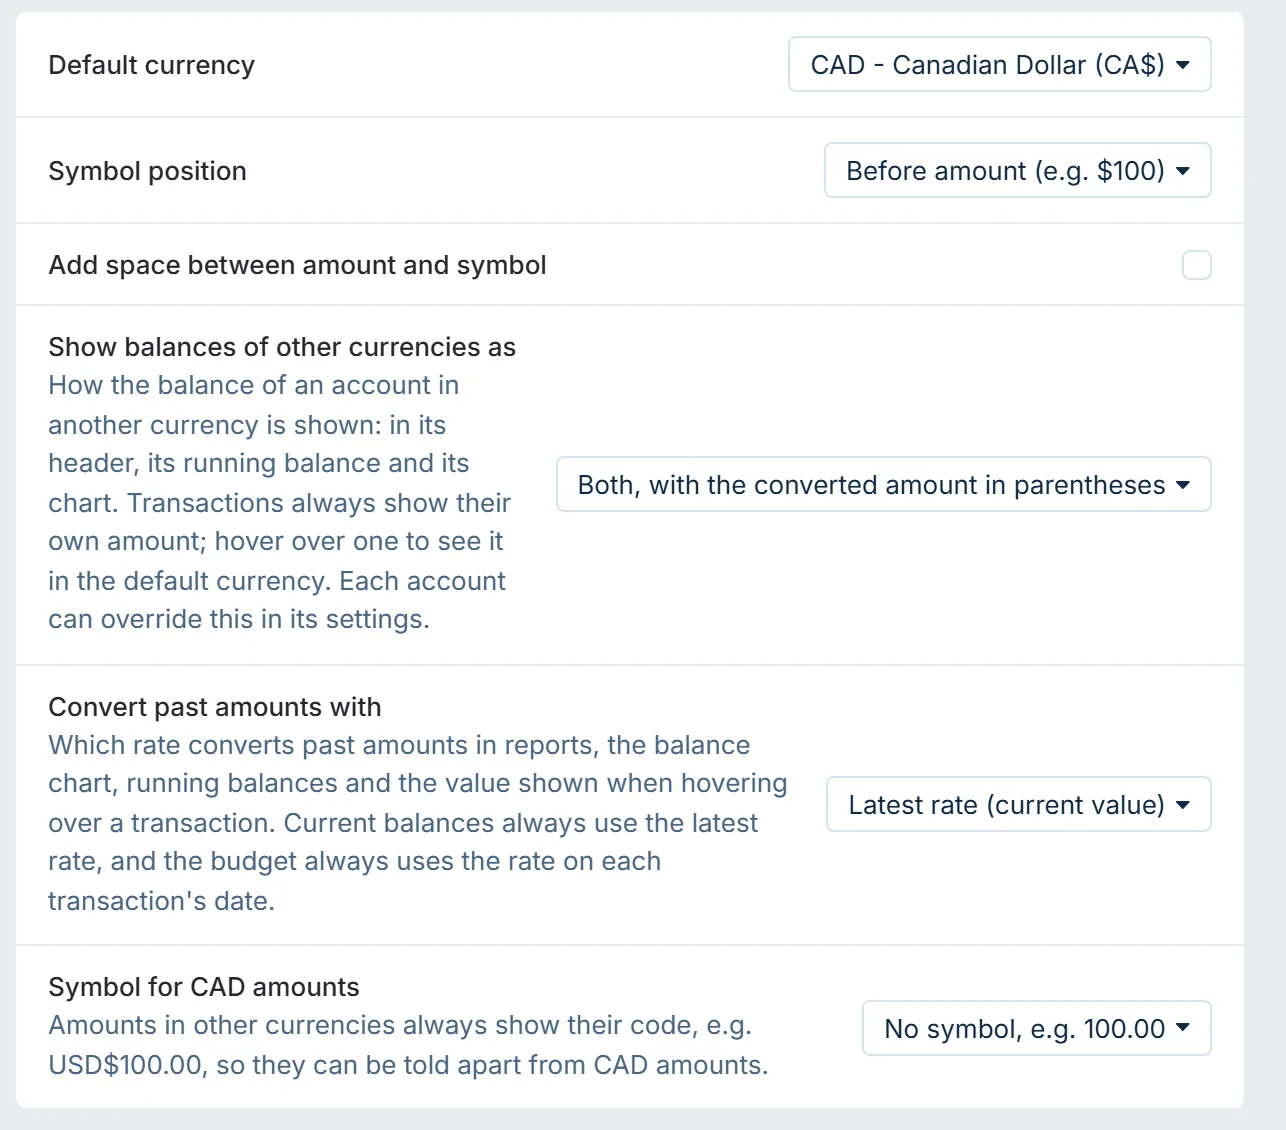
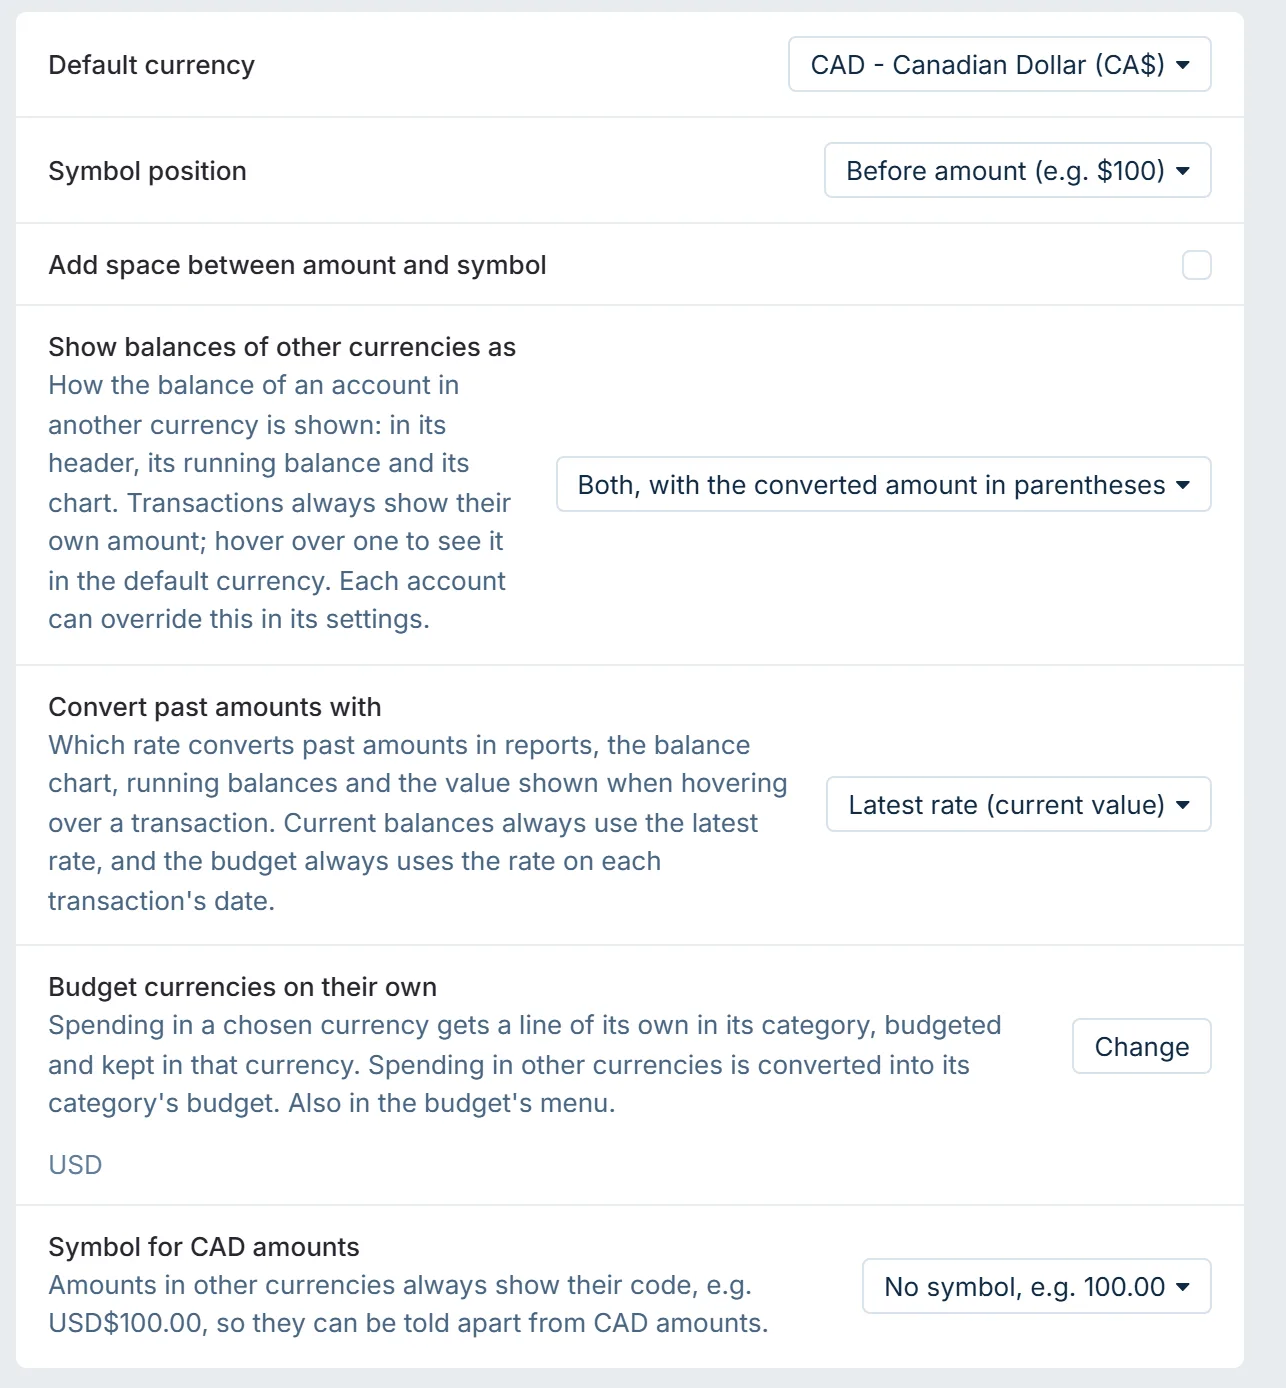
[AI] document every currency on its own line and converted spending
- Explain budgeting currencies on their own for the whole budget or one category, the question about earlier months, removing lines, the icon about converted spending, what clicking what a line spent shows and which lines show
- Add Changing the Default Currency, and say that budget templates keep their amounts when it changes
- Update the screenshots of the category menu, the currency settings and converted spending, and add ones of the choice of currencies, of changing the default currency and of the transactions a line's spending opens

Issue: rapastranac/actual#1

diff --git a/packages/docs/docs/experimental/multi-currency.md b/packages/docs/docs/experimental/multi-currency.md
@@ -81,7 +81,7 @@ With **Show balances of other currencies as**, you can choose how the balance of
 - **Converted to default currency**: `1,053.62`
 - **Both**: `USD$760.03 (1,053.62)`
 
-![The currency settings: default currency, how balances of other currencies are shown, which rate converts past amounts and the symbol for CAD amounts](/img/experimental/multi-currency/multi-currency-currency-settings@2x.webp)
+![The currency settings: default currency, how balances of other currencies are shown, which rate converts past amounts, the currencies budgeted on their own and the symbol for CAD amounts](/img/experimental/multi-currency/multi-currency-currency-settings@2x.webp)
 
 Converted amounts are never editable. An amount marked with ≈ is approximate: there is no exchange rate for it yet, or only one from a later date.
 
@@ -104,24 +104,76 @@ Because the budget uses the rate of each transaction's date, while account total
 
 ## Budgeting in More Than One Currency
 
-Any category can be budgeted in more than one currency, income ones too. For example, in a Canadian budget, Food can have CAD 400 for groceries at home and USD 150 for trips, and the USD 150 stays USD 150 whatever the exchange rate does.
-
-To add a currency, open the menu of a category and choose **Add currency**. Pick the currency, the currencies of your accounts come first, and the month it starts in. The category then shows its total in the default currency, followed by a line for its own budget and one for each currency you added.
-
-<img width="512" alt="Adding a currency to the General category: the currency, with those of your accounts first, and the month it starts in" src="/img/experimental/multi-currency/multi-currency-category-currency-add@2x.webp" />
+Any category, income ones too, can be budgeted in more than one currency. Each currency gets a line of its own under the category, budgeted and kept in that currency. For example, in a Canadian budget, Food can have CAD 400 for groceries at home and USD 150 for trips, and the USD 150 stays USD 150 whatever the exchange rate does.
 
 ![Food in a Canadian budget: its total in CAD, then CAD 400 budgeted for itself and USD 150 budgeted, spent and kept in US dollars](/img/experimental/multi-currency/multi-currency-category-currencies@2x.webp)
 
-- **Spending and income** of an account in the currency of a line show up in that line, in that currency, never converted: a salary paid in US dollars, or the starting balance of a US dollar account, shows up in the USD line of its category. Amounts in a currency without its own line show up in the category's own line, converted as before. Months before the first month of a line stay as they were.
-- **To Budget** stays in the default currency. Budgeting USD 150 takes its value from To Budget at that month's rate, and income received in US dollars adds its value at that rate: the latest rate on or before the last day of the month. The current and later months follow the latest rate; a past month keeps its last rate.
-- **The balance** of a line stays in its currency: budget USD 150, spend USD 45, and USD 105 is left. Overspending returns to To Budget at that month's rate, unless rollover is on for that line.
-- **Moving money** between a line and another category or To Budget, or covering overspending, converts it at the month's rate. You type the amount in the currency it comes from.
-- **Removing a currency** from the menu of its line moves its budget into the category, converted at each month's rate, so To Budget doesn't change. Its spending shows up in the category again.
-- **Reports**, formula cards and the category picker count the total of the category, in the default currency.
+A category with lines shows its total in the default currency, then a line for its own budget, then one line per currency. On a phone, the lines are rows under the category:
 
 <img width="320" alt="The same category on a phone, with a row for CAD and one for USD under it" src="/img/experimental/multi-currency/multi-currency-category-currencies-mobile@2x.webp" />
 
-Budget templates fill in the category's own budget only. While **Multiple currencies** is turned off, the lines are left out of the budget; turning it back on brings them back.
+On a phone, a line's amounts leave out the currency's symbol, as the row's label already names it.
+
+### Adding Lines
+
+Without lines, spending in another currency is converted into its category at the rate of each transaction's date. There are two ways to add lines:
+
+- **For the whole budget.** Choose **Budget currencies on their own…** in the budget's menu (the ⋮ next to **Category**, or the budget menu on a phone), or in **Settings → General → Currency**. Pick **None** (the default), **Every currency**, or only some currencies. A chosen currency gets a line by itself in every category where it is spent.
+- **For one category.** Open the category's menu and choose **Add a USD line**, offered for the currencies chosen for the whole budget, or **Add currency…** for any other, such as euros for a trip. The line starts in the month on screen, also a past one, and stays in the months after it, ready to budget again. Earlier months stay as they were budgeted.
+
+<img width="512" alt="Budget currencies on their own: only the currencies chosen below, with USD chosen and COP not" src="/img/experimental/multi-currency/multi-currency-own-lines@2x.webp" />
+
+<img width="172" alt="The menu of the Food category, with Add a USD line and Add currency" src="/img/experimental/multi-currency/multi-currency-category-currency-add@2x.webp" />
+
+When you choose a currency that already has spending in earlier months, Actual asks once what happens to those months:
+
+- **Keep earlier months** leaves them as they were budgeted, with that spending converted into its categories. The lines start in the current month.
+- **Move it into lines too** puts that spending in the lines in every month. A month with nothing budgeted in a line then shows it as overspent.
+
+Without earlier spending, the lines cover every month, so transactions you import later for earlier months land in them too.
+
+### Removing Lines
+
+**Remove currency**, in the menu of a line, moves the line's budget into its category, converted at each month's rate, so To Budget doesn't change. Its spending is converted into the category again, unless the currency is chosen for the whole budget: that choice covers every category, so the line comes back wherever there is spending in it.
+
+When a currency stops being chosen for the whole budget, its lines that only held spending go away by themselves. If some of its lines have budgets, Actual asks whether to move those budgets into their categories, converted at each month's rate, or keep the lines.
+
+### How Lines Count
+
+- **Spending and income** of an account in a line's currency count in that line, never converted: a salary paid in US dollars, or the starting balance of a US dollar account, lands in the USD line of its category.
+- **The balance** of a line stays in its currency: budget USD 150, spend USD 45, and USD 105 is left. Overspending returns to To Budget at that month's rate, unless rollover is on for that line.
+- **To Budget** stays in the default currency. Budgeting USD 150 takes its value from To Budget at that month's rate, and income in US dollars adds its value at that rate: the latest rate on or before the last day of the month. The current and later months follow the latest rate; a past month keeps its last rate.
+- **Moving money** between a line and another category or To Budget, or covering overspending, converts it at the month's rate. You type the amount in the currency it comes from.
+- **Reports**, formula cards and the category picker count the category's total, in the default currency.
+- **Budget templates** fill in the category's own budget only.
+
+### What You See
+
+- **Lines show where they matter.** A line shows in the months where it has a budget, spending or a balance, so quiet months stay clean. A line you added or budgeted in also shows from its first month on, or from the current month when it covers every month, so you can budget it ahead.
+- **Converted spending is pointed out.** When a category converts spending from a currency without a line, an information icon shows next to what it spent. It lists what was converted and from which account, with **Add a COP line** for each of those currencies and one button for all of them. On a phone, the icon sits next to the category's name, and the category's menu lists the same.
+
+<img width="568" alt="Food converts COP and USD spending in October: the information icon lists the amounts and their accounts, with Add a COP line, Add a USD line and Add COP and USD lines" src="/img/experimental/multi-currency/multi-currency-converted-spending@2x.webp" />
+
+- **What a line spent opens the transactions it counts.** Click what a line spent, as you would for a category, to see that category's transactions in that month from the accounts in the line's currency. The page adds a filter on those accounts, so the total matches the number you clicked. The line of the category's own budget shows the accounts in a currency without a line of its own, and what the category spent in total, on its first row, still shows all of them.
+
+![Clicking what Food's USD line spent in November: the transactions page filtered by Food, November and the US checking account, with the three USD purchases](/img/experimental/multi-currency/multi-currency-category-currency-activity@2x.webp)
+
+While **Multiple currencies** is turned off, lines are left out of the budget and every amount counts 1:1, as before the feature existed. Turning it back on brings the lines back with everything they had.
+
+## Changing the Default Currency
+
+Moving to another country, or simply measuring your money in another currency, means changing the default currency in **Settings → General → Currency**. With multiple currencies on, only the point of reference changes. Actual tells you what will happen before it does it, and one undo brings everything back.
+
+- **Accounts keep their currency**, and their transactions are never converted: a chequing account in CAD stays in CAD.
+- **Budgets in the old default currency** follow the choice of currencies budgeted on their own:
+  - If it isn't chosen, they become budgets in the new default, converted at each month's rate so each month keeps its value. Spending in the old default is then converted into its category, and the information icon points it out.
+  - If it is chosen, for example with **Every currency**, its budgets move to lines in that currency from the month it's chosen from, and aren't converted. Earlier months are converted as above.
+- **Lines in the new default currency** become the categories' own budgets.
+- **To Budget** is in the new default in every month. Amounts held for next month are converted with it.
+
+<img width="622" alt="Changing the default currency from CAD to USD: accounts keep their currency and CAD budgets become USD budgets, converted at each month's rate" src="/img/experimental/multi-currency/multi-currency-default-currency-change@2x.webp" />
+
+Without multiple currencies, the default currency only changes how amounts are written.
 
 ## Transfers Between Currencies
 
@@ -145,5 +197,6 @@ Fees and spread aren't recorded as a separate expense. They are only there to te
 
 ## Known Limitations
 
+- Budget templates in category notes keep their amounts when the default currency changes, so they then count in the new default.
 - Amounts outside the transactions and balances of an account, such as in rules, schedules and filters, use the format of the default currency. In a budget in yen, an amount in dollars there shows without its cents until you edit it; it is always kept as you entered it.
 - Rates can't be fetched automatically yet.
